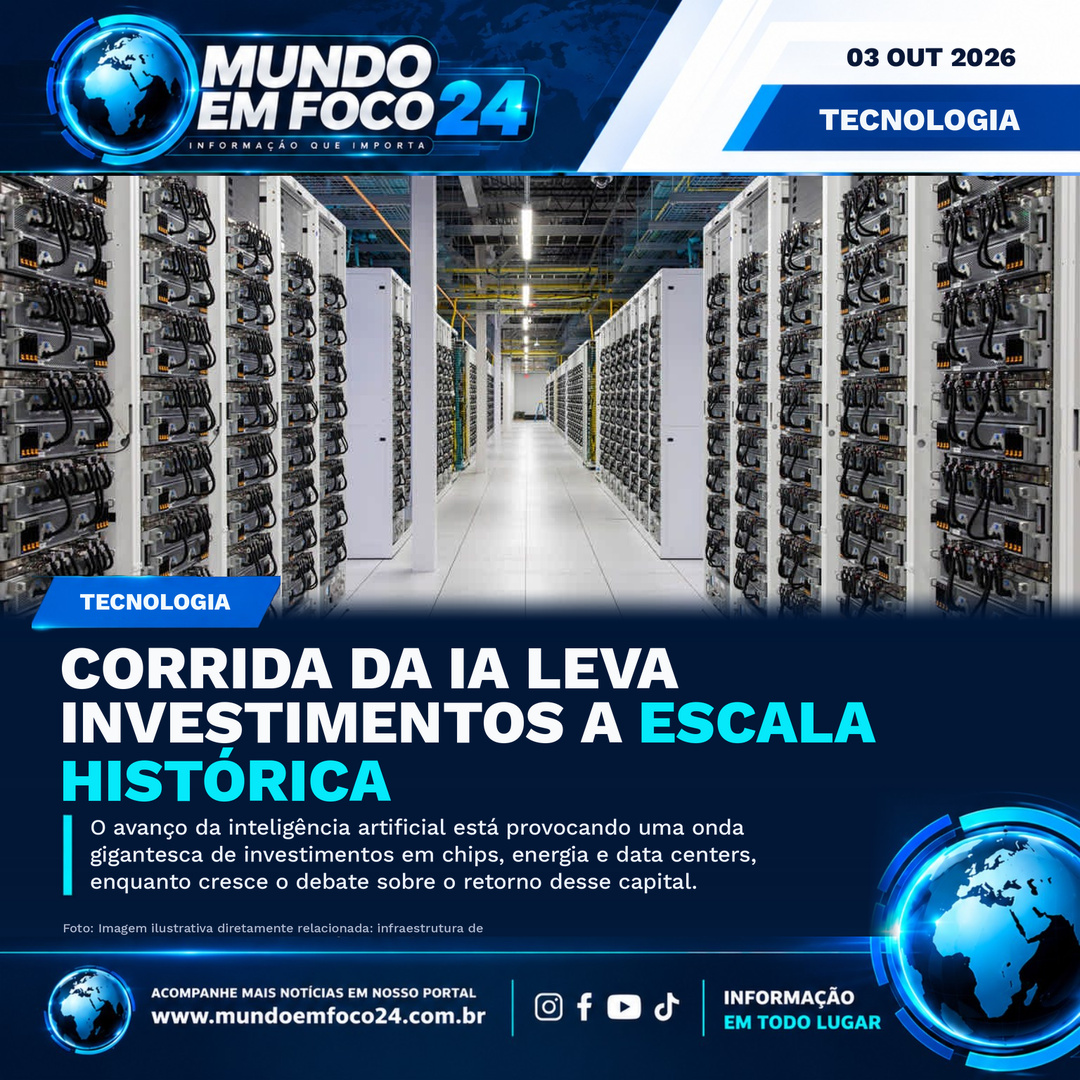
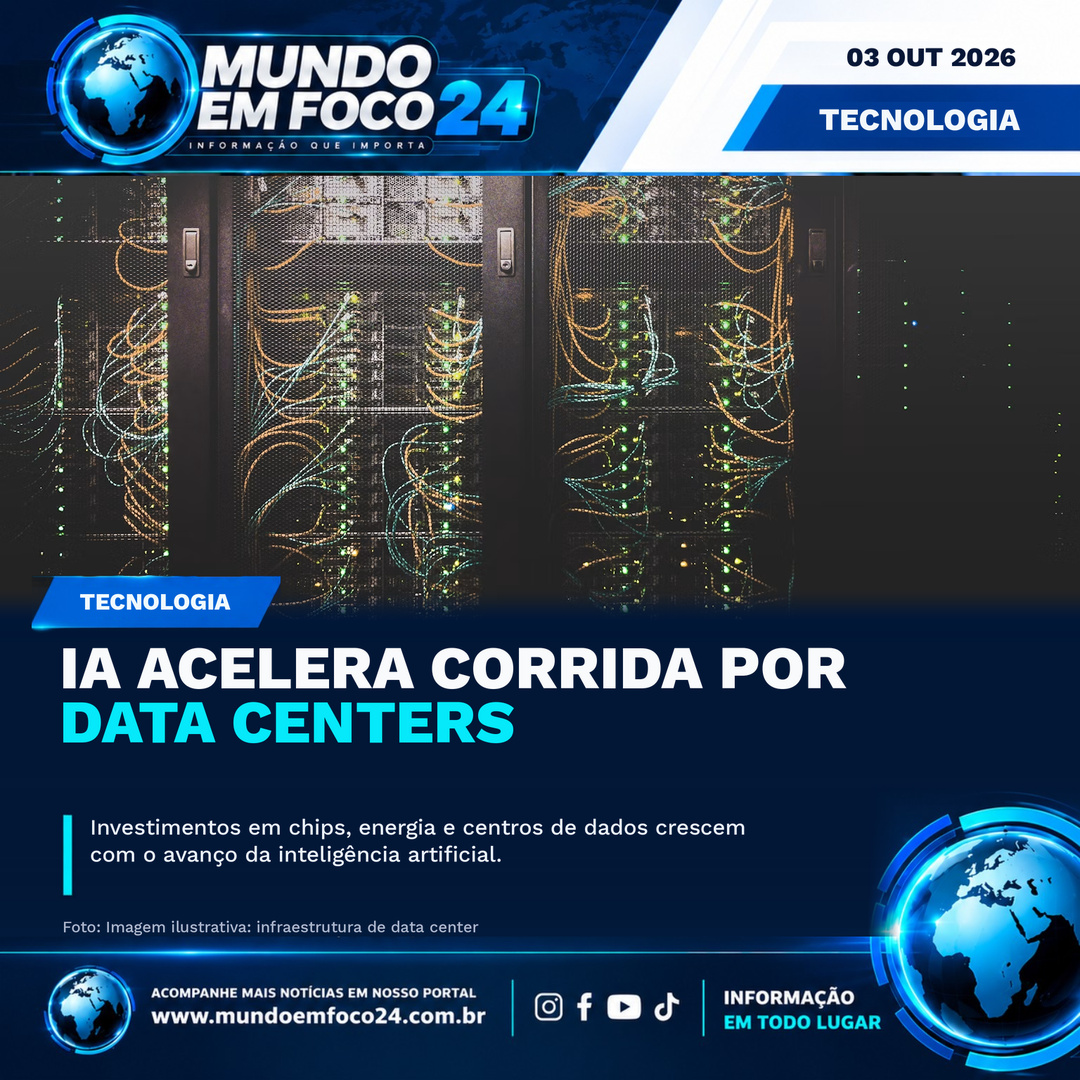
chore: publish Mundo em Foco 24 portal and branded art

diff --git a/share/corrida-bilionaria-ia-data-centers-03-10-2026.html b/share/corrida-bilionaria-ia-data-centers-03-10-2026.html
@@ -1,0 +1,1 @@
+<!doctype html><html lang="pt-BR"><head><meta charset="utf-8"><meta name="viewport" content="width=device-width,initial-scale=1"><title>IA acelera corrida por data centers | Mundo em Foco 24</title><meta name="description" content="Investimentos em chips, energia e centros de dados crescem com o avanço da inteligência artificial."><link rel="canonical" href="https://filipemelo1994-del.github.io/Mundo-em-foco-24-m-dia-/noticia.html?id=corrida-bilionaria-ia-data-centers-03-10-2026"><meta property="og:type" content="article"><meta property="og:site_name" content="Mundo em Foco 24"><meta property="og:title" content="IA acelera corrida por data centers"><meta property="og:description" content="Investimentos em chips, energia e centros de dados crescem com o avanço da inteligência artificial."><meta property="og:image" content="https://raw.githubusercontent.com/filipemelo1994-del/Mundo-em-foco-24-m-dia-/main/public/news-art/corrida-bilionaria-ia-data-centers-03-10-2026.jpg"><meta property="og:image:alt" content="IA acelera corrida por data centers"><meta property="og:url" content="https://filipemelo1994-del.github.io/Mundo-em-foco-24-m-dia-/share/corrida-bilionaria-ia-data-centers-03-10-2026.html"><meta name="twitter:card" content="summary_large_image"><meta name="twitter:title" content="IA acelera corrida por data centers"><meta name="twitter:description" content="Investimentos em chips, energia e centros de dados crescem com o avanço da inteligência artificial."><meta name="twitter:image" content="https://raw.githubusercontent.com/filipemelo1994-del/Mundo-em-foco-24-m-dia-/main/public/news-art/corrida-bilionaria-ia-data-centers-03-10-2026.jpg"><meta http-equiv="refresh" content="0;url=https://filipemelo1994-del.github.io/Mundo-em-foco-24-m-dia-/noticia.html?id=corrida-bilionaria-ia-data-centers-03-10-2026"><script>location.replace("https://filipemelo1994-del.github.io/Mundo-em-foco-24-m-dia-/noticia.html?id=corrida-bilionaria-ia-data-centers-03-10-2026")</script></head><body><p>Abrindo matéria no Mundo em Foco 24…</p><a href="https://filipemelo1994-del.github.io/Mundo-em-foco-24-m-dia-/noticia.html?id=corrida-bilionaria-ia-data-centers-03-10-2026">Continuar</a></body></html>

diff --git a/share/aramco-riade-houthis-03-10-2026.html b/share/aramco-riade-houthis-03-10-2026.html
@@ -1,0 +1,1 @@
+<!doctype html><html lang="pt-BR"><head><meta charset="utf-8"><meta name="viewport" content="width=device-width,initial-scale=1"><title>Fogo e fumaça são vistos perto da Aramco em Riad | Mundo em Foco 24</title><meta name="description" content="Houthis reivindicam ataque à instalação; autoridades sauditas ainda não haviam confirmado a causa."><link rel="canonical" href="https://filipemelo1994-del.github.io/Mundo-em-foco-24-m-dia-/noticia.html?id=aramco-riade-houthis-03-10-2026"><meta property="og:type" content="article"><meta property="og:site_name" content="Mundo em Foco 24"><meta property="og:title" content="Fogo e fumaça são vistos perto da Aramco em Riad"><meta property="og:description" content="Houthis reivindicam ataque à instalação; autoridades sauditas ainda não haviam confirmado a causa."><meta property="og:image" content="https://raw.githubusercontent.com/filipemelo1994-del/Mundo-em-foco-24-m-dia-/main/public/news-art/aramco-riade-houthis-03-10-2026.jpg"><meta property="og:image:alt" content="Fogo e fumaça são vistos perto da Aramco em Riad"><meta property="og:url" content="https://filipemelo1994-del.github.io/Mundo-em-foco-24-m-dia-/share/aramco-riade-houthis-03-10-2026.html"><meta name="twitter:card" content="summary_large_image"><meta name="twitter:title" content="Fogo e fumaça são vistos perto da Aramco em Riad"><meta name="twitter:description" content="Houthis reivindicam ataque à instalação; autoridades sauditas ainda não haviam confirmado a causa."><meta name="twitter:image" content="https://raw.githubusercontent.com/filipemelo1994-del/Mundo-em-foco-24-m-dia-/main/public/news-art/aramco-riade-houthis-03-10-2026.jpg"><meta http-equiv="refresh" content="0;url=https://filipemelo1994-del.github.io/Mundo-em-foco-24-m-dia-/noticia.html?id=aramco-riade-houthis-03-10-2026"><script>location.replace("https://filipemelo1994-del.github.io/Mundo-em-foco-24-m-dia-/noticia.html?id=aramco-riade-houthis-03-10-2026")</script></head><body><p>Abrindo matéria no Mundo em Foco 24…</p><a href="https://filipemelo1994-del.github.io/Mundo-em-foco-24-m-dia-/noticia.html?id=aramco-riade-houthis-03-10-2026">Continuar</a></body></html>
